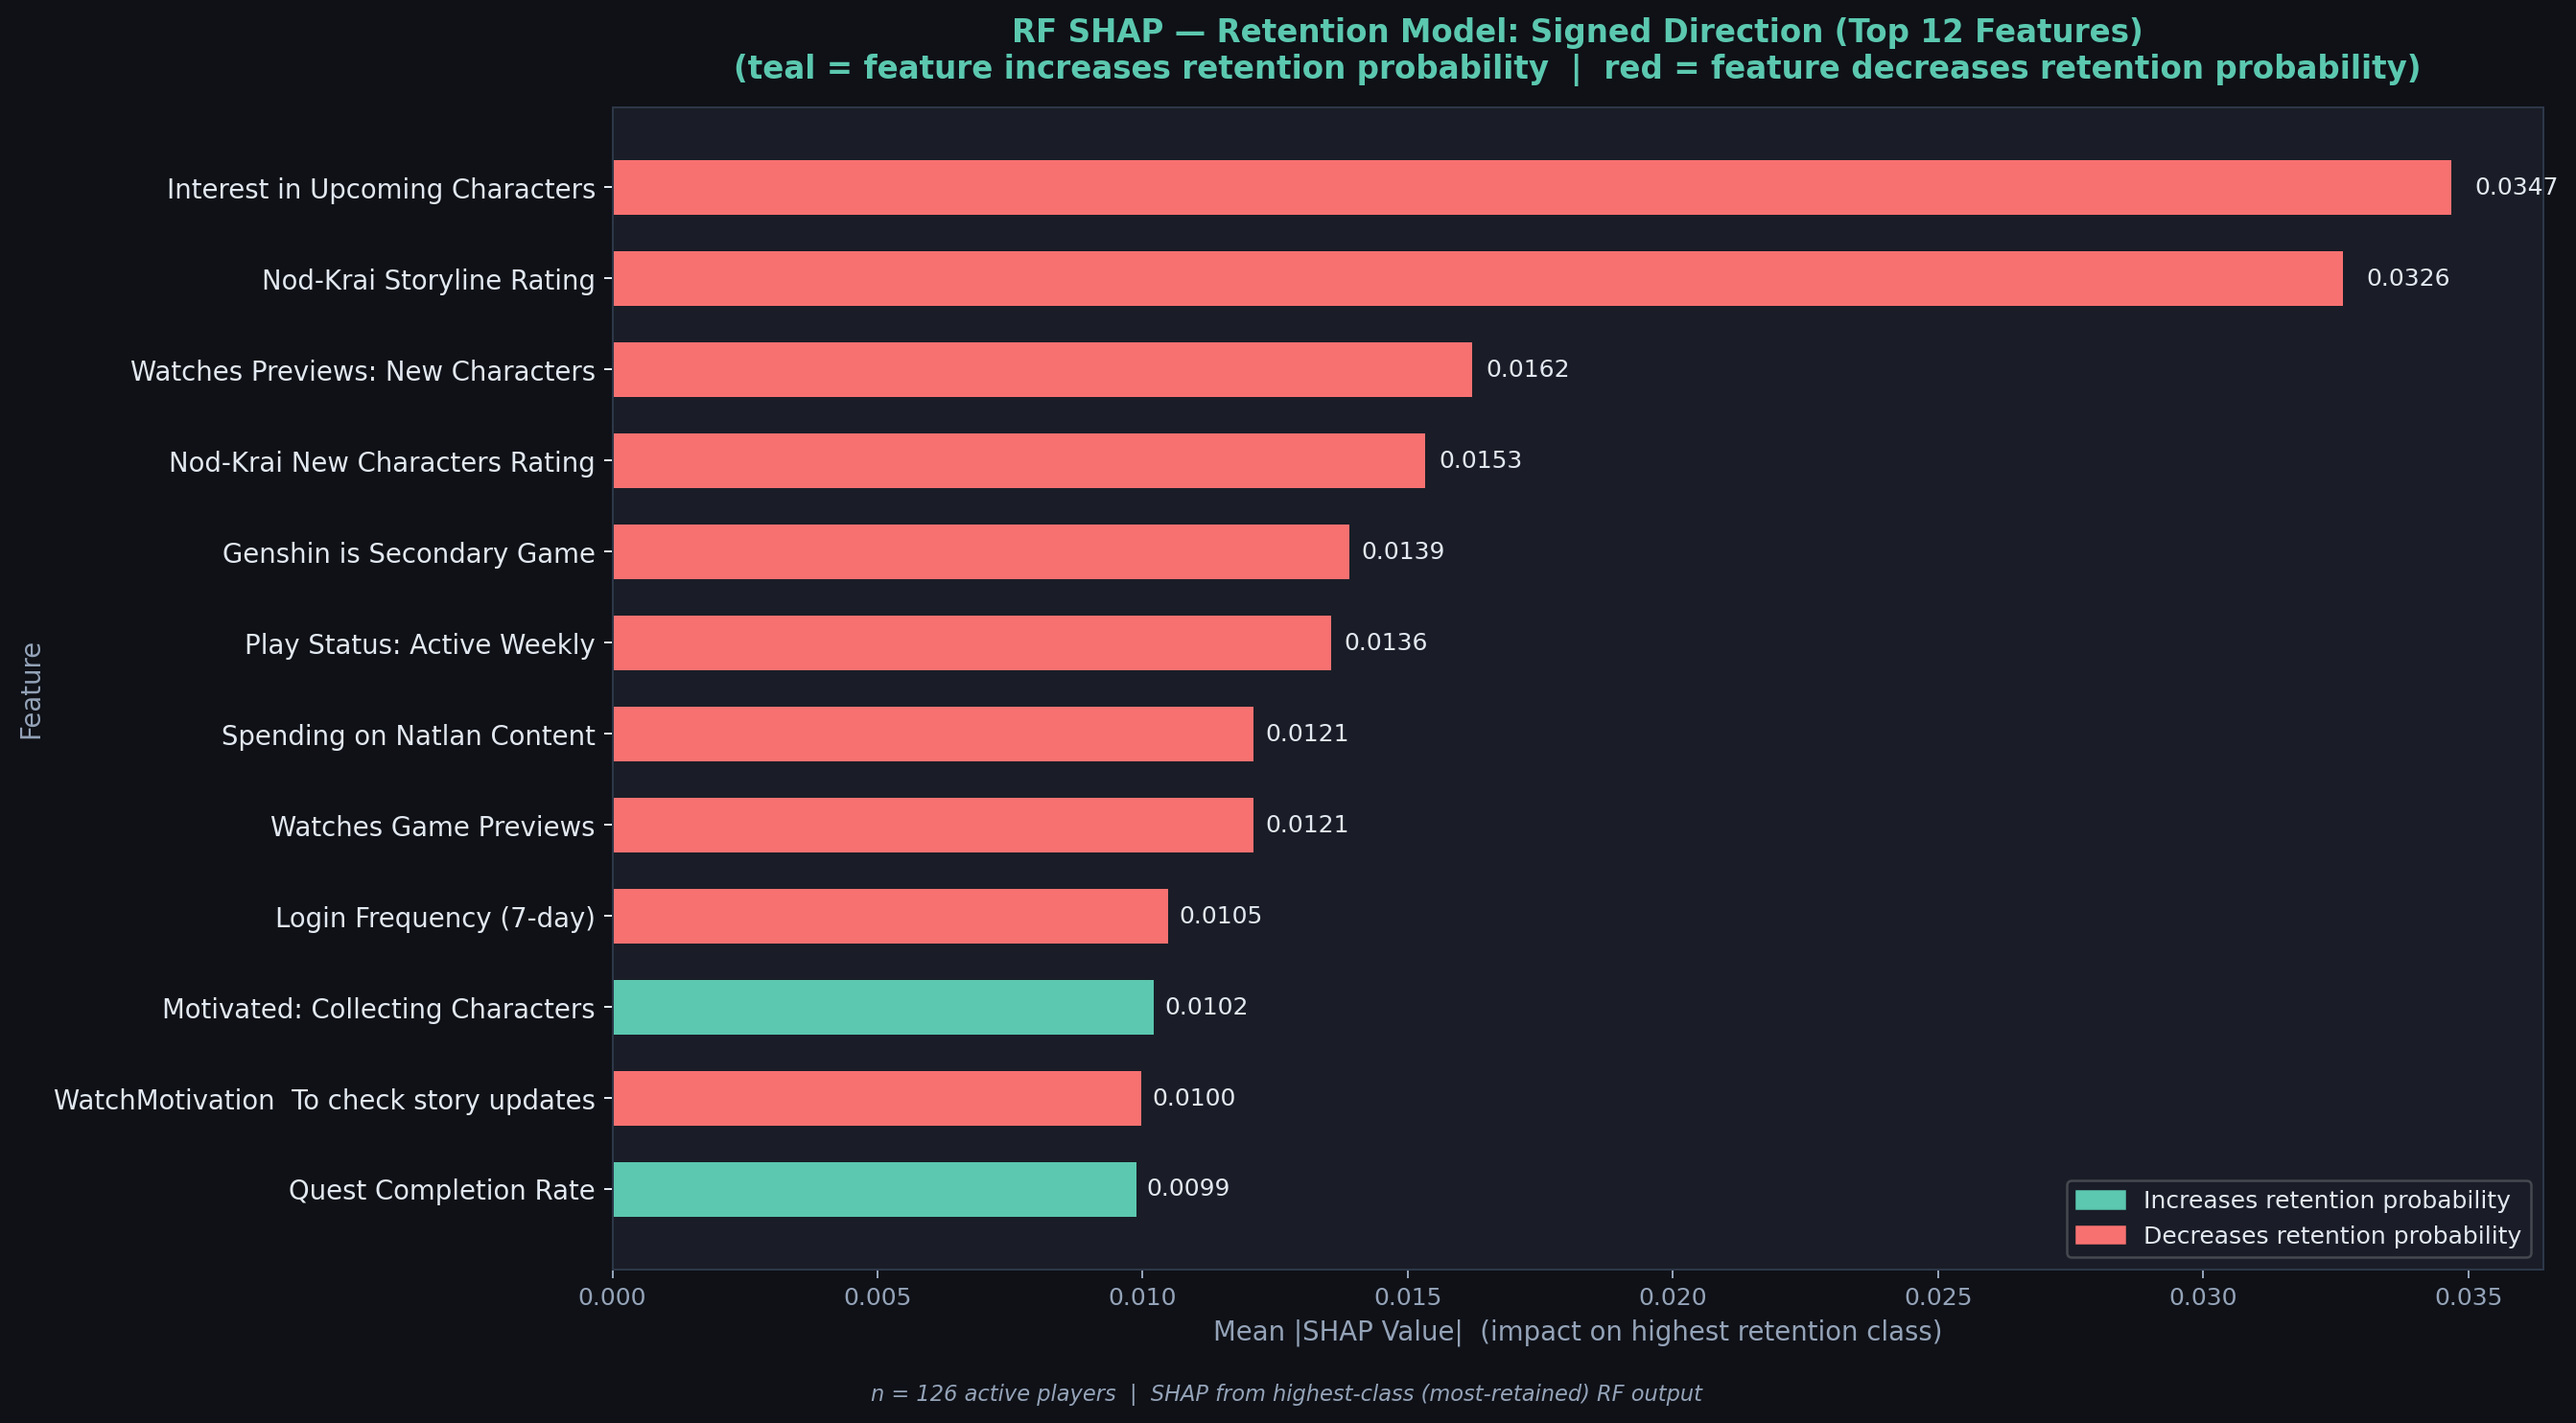
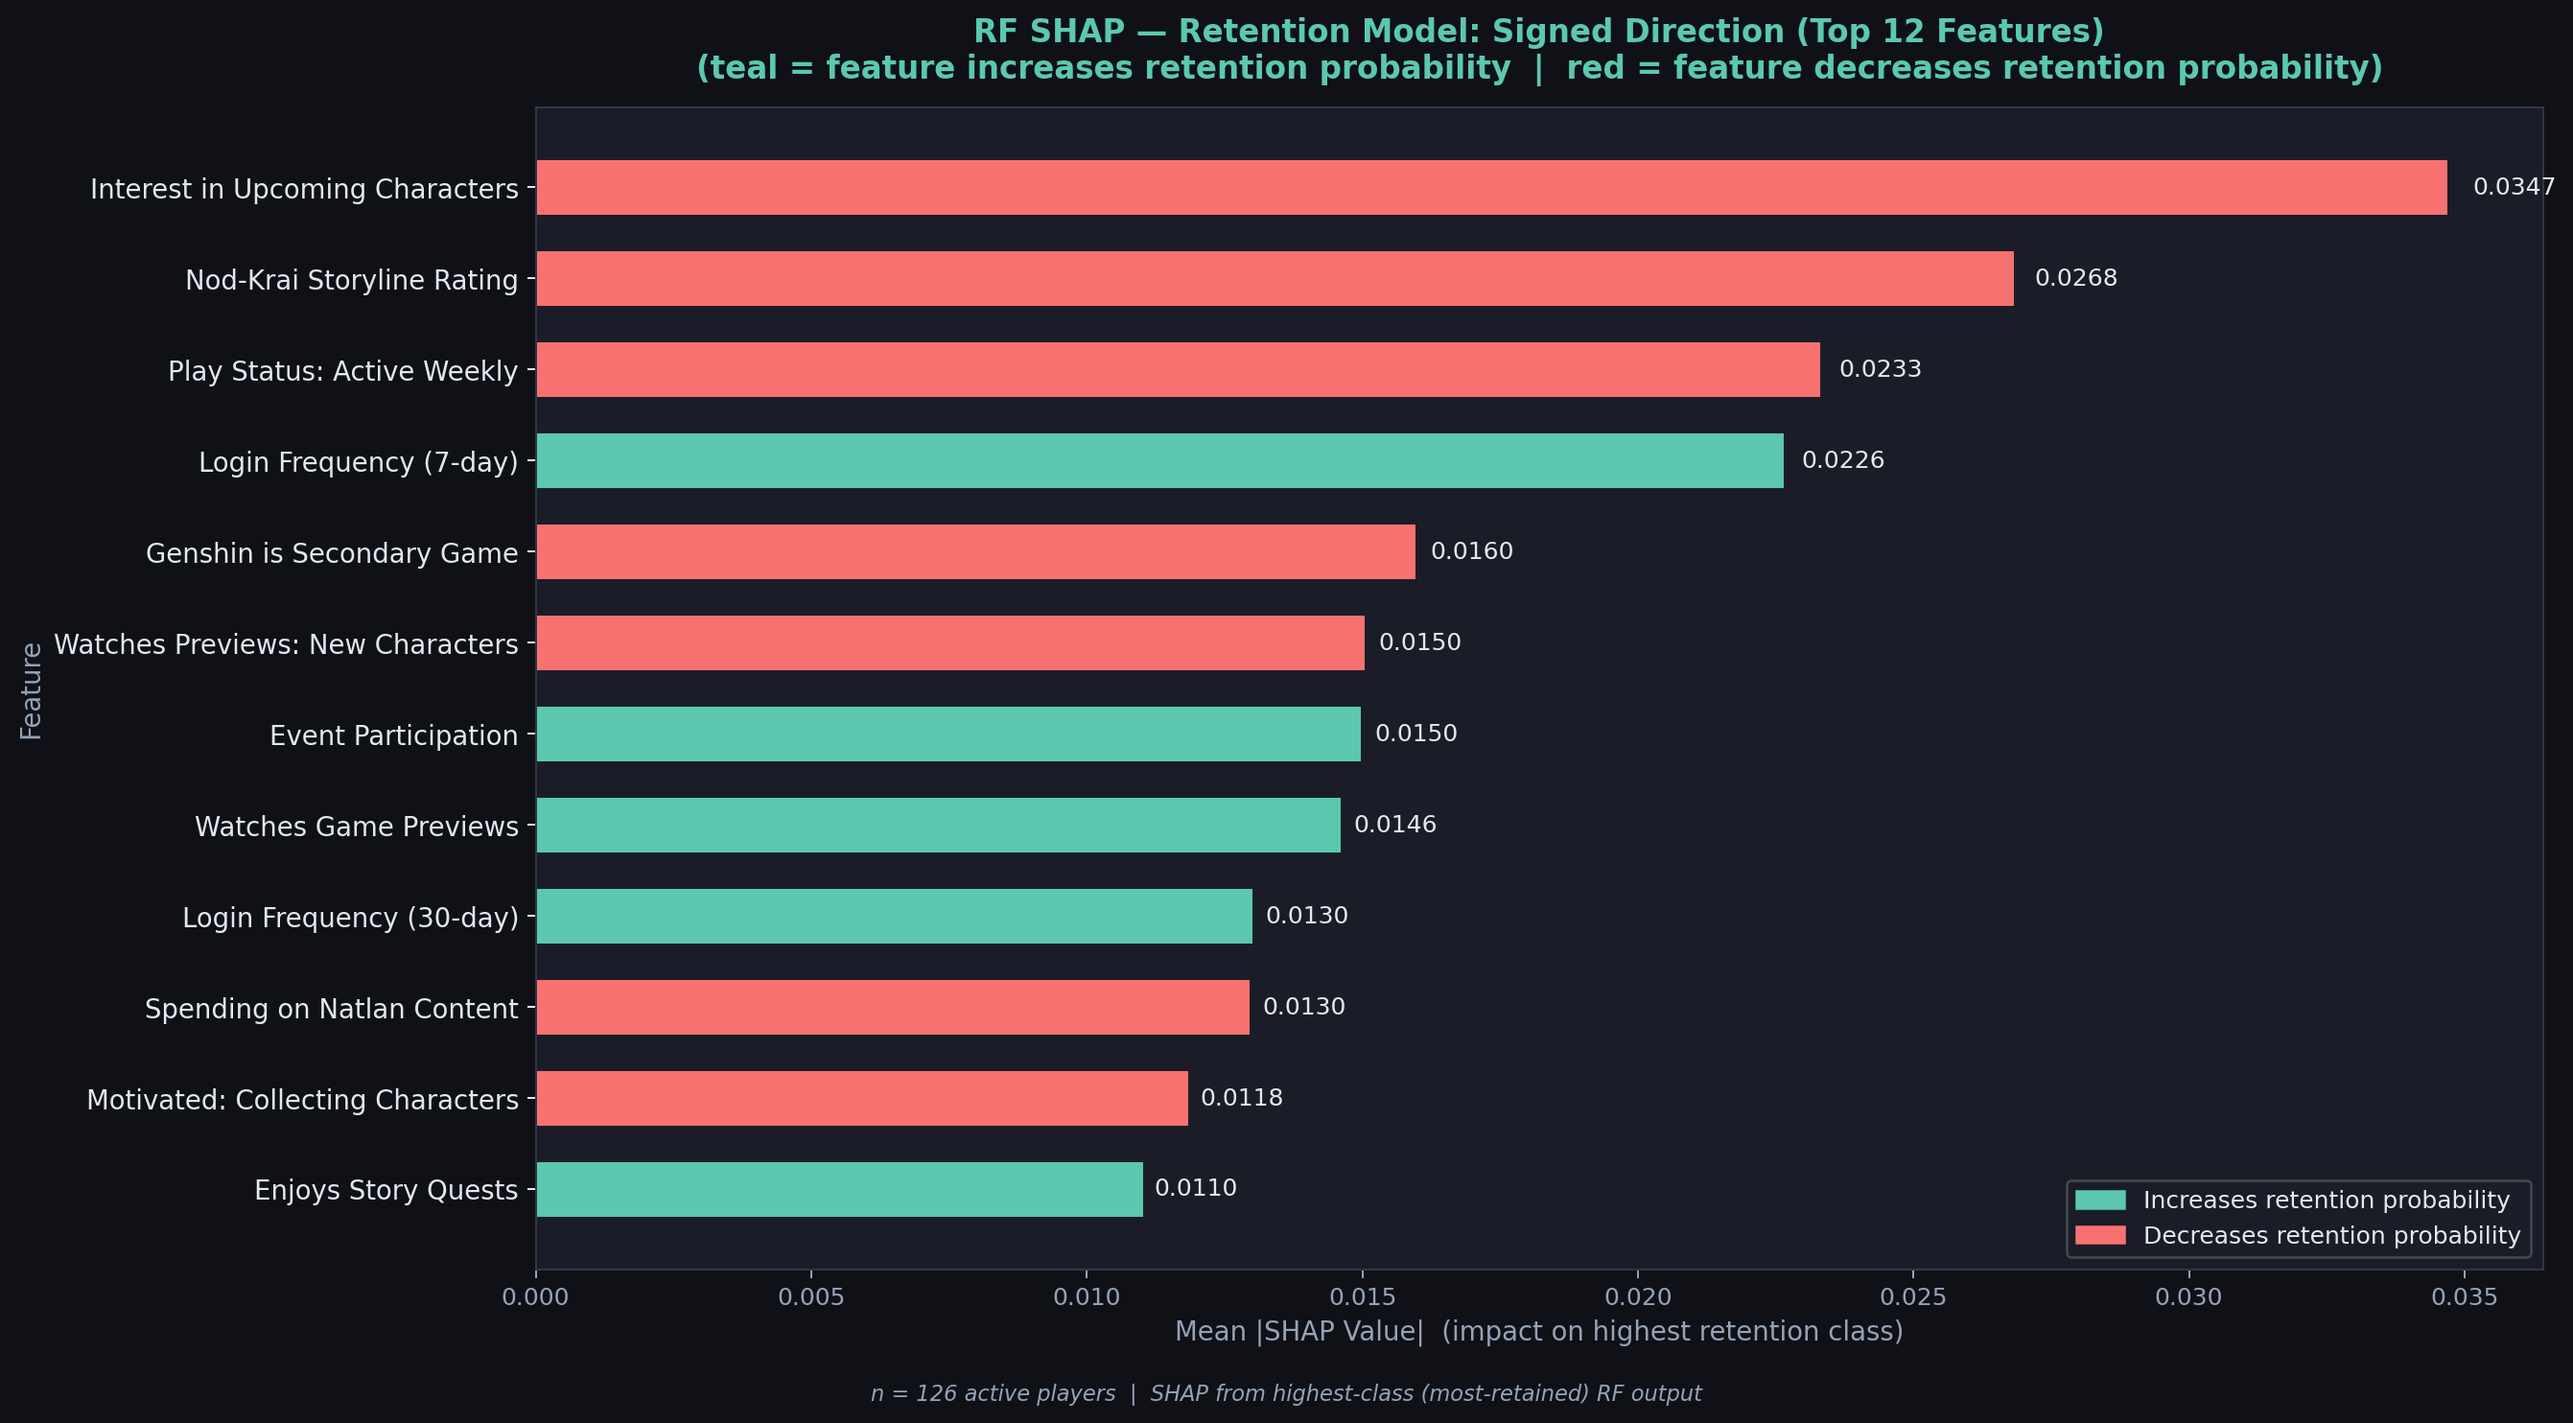
finalise

diff --git a/templates/limitations.html b/templates/limitations.html
@@ -108,34 +108,30 @@
 
   <!-- Limitations -->
   <div class="section-label">Known Limitations</div>
-  <h2 class="section-title">Four Acknowledged Limitations</h2>
+  <h2 class="section-title">Three Acknowledged Limitations</h2>
 
   <div class="limitation-card">
-    <h3>⚠ Limitation 1 — Churn Model Constrained to Demographic Features Only</h3>
+    <h3>⚠ Limitation 1 — Self-Reported Data Limits Both Model Depth and SHAP Reliability</h3>
     <p>
-      The combined churn model was constrained to five shared demographic features 
-      (age, play years, gender, friend influence) because behavioural variables such as login frequency, 
-      spending, and event participation were only collected from active players. 
-      This limited the model's predictive depth, explaining the moderate AUC scores 
-      (LR=0.708, RF=0.648) and the counterintuitive result where LR outperformed RF — 
-      a pattern consistent with RF's known underperformance on low-dimensional feature spaces.
+      The most fundamental data constraint in this study operates on two levels. 
+      First, the churned player survey did not include retrospective behavioural questions 
+      (e.g., login frequency, spending, or event participation <em>before</em> disengagement), 
+      meaning the combined churn model was restricted to five shared demographic features only 
+      (age, play years, gender, friend influence). This explains the moderate AUC scores 
+      (LR=0.708, RF=0.648) and the counterintuitive LR outperformance over RF — 
+      a pattern consistent with RF's known underperformance in low-dimensional feature spaces.
+      <br><br>
+      Second, even the retention model's behavioural features — Login Frequency, Event Participation, 
+      Quest Completion Rate — are <strong>player self-reported estimates, not objective system records</strong>. 
+      This introduces recall bias and social desirability bias, which in turn means the SHAP findings 
+      reflect <em>what players believe drives their behaviour</em>, not necessarily what the game logs 
+      would confirm. The directional insights remain valuable as hypotheses, but cannot be treated 
+      as ground truth without server-side validation.
     </p>
   </div>
 
   <div class="limitation-card">
-    <h3>⚠ Limitation 2 — Survey Design Oversight: Missing Retrospective Behavioural Data</h3>
-    <p>
-      A limitation of the current survey design is the absence of retrospective behavioural 
-      questions for churned players (e.g., login frequency, spending, and event participation 
-      prior to disengagement). Without shared behavioural features across both groups, 
-      the combined churn model was constrained to demographic variables only. 
-      Future studies should include retrospective behavioural items in the churned player 
-      questionnaire to enable feature-aligned modelling across active and churned populations.
-    </p>
-  </div>
-
-  <div class="limitation-card">
-    <h3>⚠ Limitation 3 — K=2 Clustering Lacks Granularity</h3>
+    <h3>⚠ Limitation 2 — K=2 Clustering Lacks Granularity</h3>
     <p>
       Due to the limited sample size (n=126 active players) and the highly imbalanced 
       retention target (91/126 intending to continue, only 11 at-risk), K=2 was selected 
@@ -147,7 +143,7 @@
   </div>
 
   <div class="limitation-card">
-    <h3>⚠ Limitation 4 — SOM Quality Above Ideal Thresholds</h3>
+    <h3>⚠ Limitation 3 — SOM Quality Above Ideal Thresholds</h3>
     <p>
       The SOM produced a Quantization Error of 1.6229 and Topographic Error of 0.4206, 
       both exceeding ideal thresholds (QE &lt; 1.0, TE &lt; 0.2). This is attributable to 
@@ -218,13 +214,20 @@
   <div class="future-card">
     <h3>🚀 Priority 1 — Server-Side Log Data Integration</h3>
     <p>
-      The most significant avenue for future improvement lies in replacing survey-based 
-      self-reported data with server-side behavioural logs. Log data would provide 
-      objective, high-frequency records of login patterns, session duration, in-game spending, 
-      and event participation — eliminating self-report bias and enabling temporal feature 
-      engineering (e.g., 30-day login trend, consecutive days played). 
-      With sufficient log data, the class imbalance problem would be substantially reduced, 
-      enabling reliable identification of at-risk players and real-time churn intervention pipelines.
+      The most significant avenue for future improvement is replacing survey-based self-reported data 
+      with server-side behavioural logs. Unlike survey responses — which rely on player recall and 
+      are subject to memory bias — log data records <strong>exactly what players actually did</strong>: 
+      precise login timestamps, session durations, which events were opened vs completed, 
+      in-game spending to the exact amount, and the precise date a player went inactive.
+      <br><br>
+      This matters because it closes the gap between what players <em>say</em> influences their behaviour 
+      and what <em>actually</em> preceded their churn. For example, a player might report that 
+      "no time to play" caused them to quit — but log data may reveal their session length 
+      had been declining for 6 weeks prior, or that they stopped participating in events 
+      before they stopped logging in entirely. <strong>SHAP applied to log data would identify 
+      the true early-warning signals of churn</strong>, not just self-perceived reasons. 
+      Combined with a defined inactivity threshold (e.g., 30 consecutive days without login = churned), 
+      this would enable reliable real-time churn prediction and personalised intervention pipelines.
     </p>
   </div>
 

diff --git a/templates/result.html b/templates/result.html
@@ -203,9 +203,9 @@
         <div class="chart-caption">
           <h4>RF SHAP: Top 10 Retention Features</h4>
           <p>The 10 most important features for predicting retention. 
-          <strong>Nod-Krai Storyline Rating</strong> and <strong>Interest in Upcoming Characters</strong> 
-          rank near-equally at the top, with Nod-Krai New Characters Rating entering at #3 — 
-          confirming that content satisfaction with the latest region is a dominant retention signal.</p>
+          <strong>Interest in Upcoming Characters</strong> takes #1 (1.4432), with <strong>Nod-Krai Storyline Rating</strong> close behind at #2 (1.1659). 
+          Notably, <strong>Login Frequency (7-day)</strong> enters at #4 and <strong>Event Participation</strong> at #6 — 
+          confirming that active behavioural engagement sits alongside content interest as a core retention driver.</p>
         </div>
       </div>
       <div class="chart-card">
@@ -213,10 +213,9 @@
              alt="RF SHAP top 15 retention features">
         <div class="chart-caption">
           <h4>RF SHAP: Top 15 Retention Features</h4>
-          <p>Extended view of the top 15 features. <strong>Nod-Krai Storyline Rating</strong> now leads, 
-          with <strong>Age</strong> appearing as a new entry — suggesting younger or newer players 
-          have a distinct retention risk profile. "WatchMotivation: To check story updates" also enters 
-          the list, reinforcing how story-following behaviour connects to long-term intent.</p>
+          <p>Extended view of the top 15 features. <strong>Interest in Upcoming Characters</strong> leads at #1, with Nod-Krai Storyline Rating at #2, Play Status: Active Weekly at #3, and Login Frequency (7-day) at #4 — a notable shift placing active play behaviour higher up. 
+          New entries include <strong>Fixed Friend Group</strong> and <strong>PlayStatus: Casual player</strong>, 
+          suggesting social context and play style also carry meaningful retention weight. Age, WatchMotivation, and Nod-Krai New Characters Rating drop off this list.</p>
         </div>
       </div>
     </div>
@@ -236,10 +235,10 @@
         <div class="chart-caption">
           <h4>SHAP Beeswarm: Retention ⭐</h4>
           <p>The beeswarm plot reveals the full distribution of individual SHAP values across 
-          all 126 active players. New features appear compared to earlier views — 
-          <strong>Nod-Krai New Characters Rating</strong>, <strong>WatchMotivation: To check story updates</strong>, 
-          and <strong>Age</strong> all show meaningful spread. Players with high interest in upcoming characters 
-          and strong Nod-Krai story ratings cluster at positive (rightward) SHAP values. 
+          all 126 active players. Compared to earlier views, <strong>Event Participation</strong>, 
+          <strong>PlayStatus: Casual player</strong>, and <strong>Fixed Friend Group</strong> now appear — 
+          highlighting that both social ties and play frequency patterns contribute to individual-level retention risk. 
+          Players with high interest in upcoming characters and strong Nod-Krai story ratings cluster at positive (rightward) SHAP values. 
           <strong>This is the study's most informative single chart.</strong></p>
         </div>
       </div>

diff --git a/static/style.css b/static/style.css
@@ -13,6 +13,7 @@ body {
   background: #2C2F4F;
   color: white;
   scroll-behavior: smooth;
+  overflow-x: hidden;  /* prevent horizontal scroll pushing nav off-screen on mobile */
 }
 
 /* ---- Page Hero Banner ---- */
